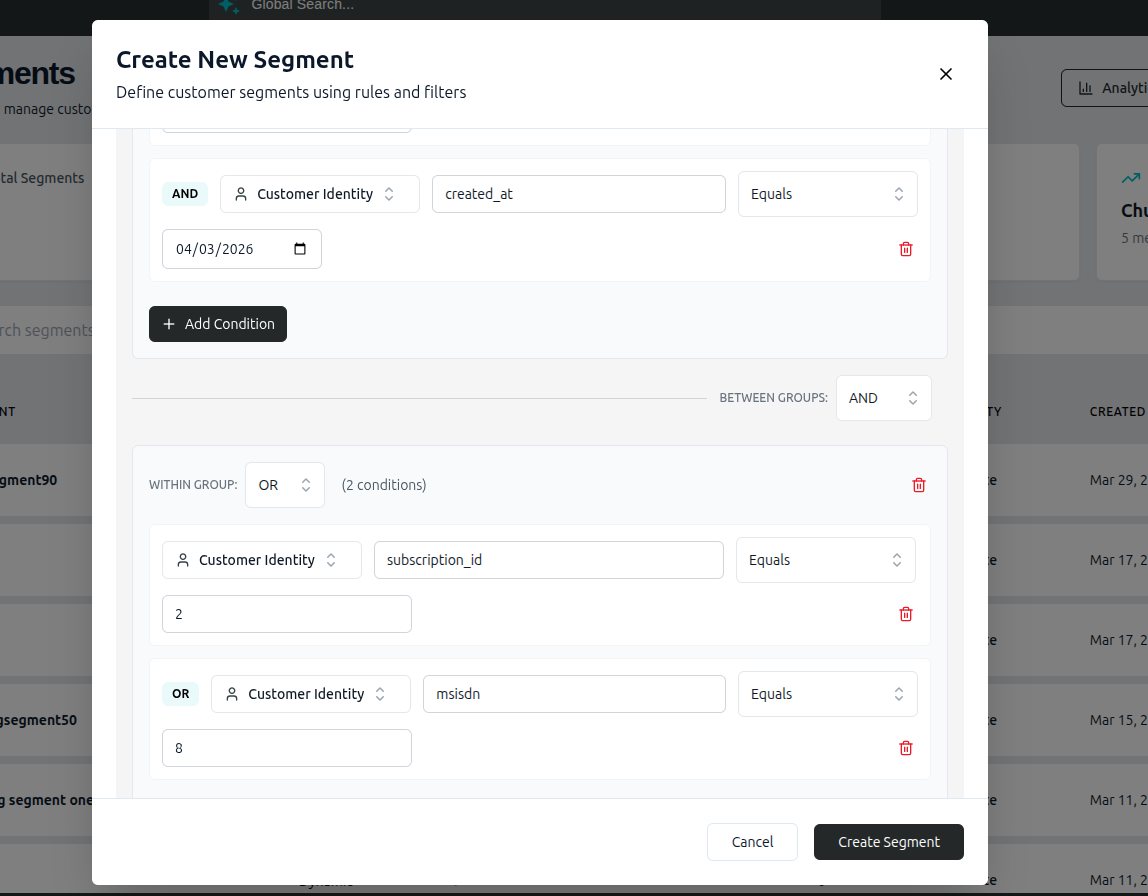
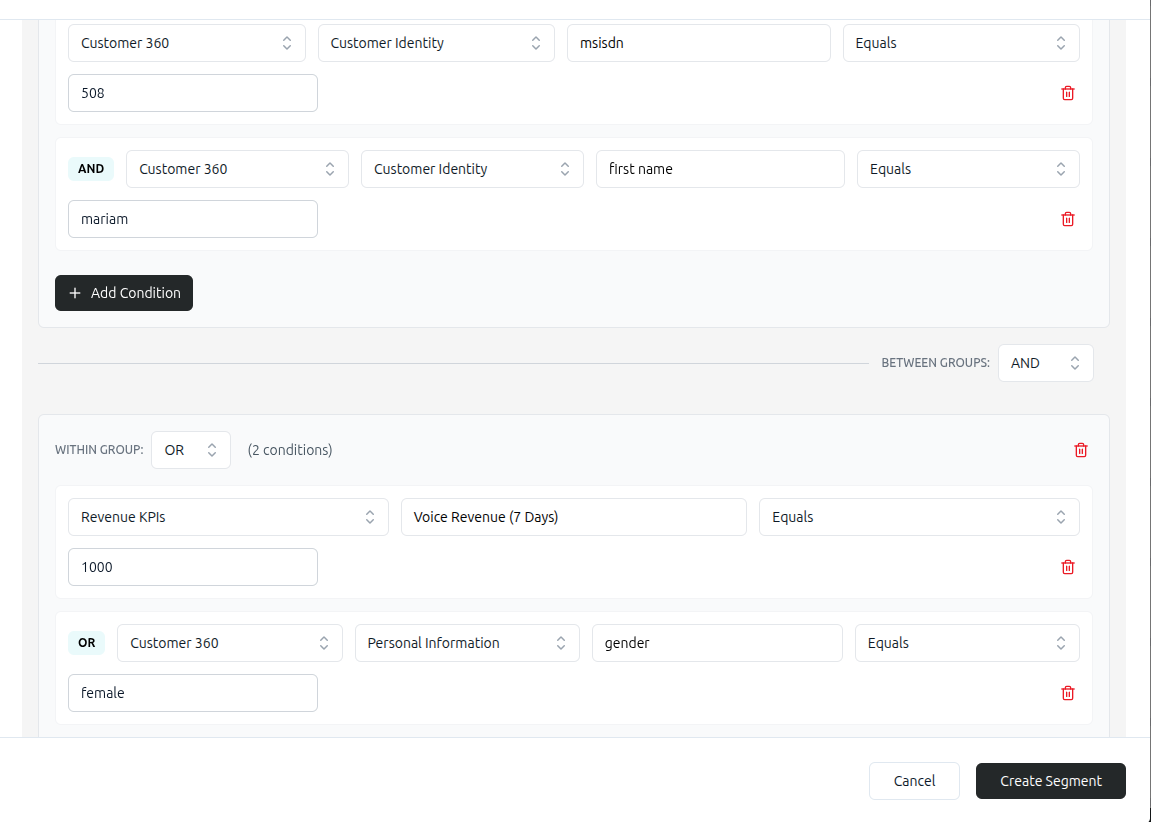
segmentmd file

diff --git a/src/features/docs/sidebars.v1.1.ts b/src/features/docs/sidebars.v1.1.ts
@@ -608,22 +608,9 @@ const sidebarsV1_1: SidebarsConfig = {
         "configuration/segment-types",
         "configuration/segment-catalog",
         {
-          type: "category",
+          type: "doc",
+          id: "configuration/notification-types-list",
           label: "Notification Types",
-          items: [
-            {
-              type: "doc",
-              id: "configuration/notification-types-overview",
-              label: "Overview",
-            },
-            {
-              type: "doc",
-              id: "configuration/notification-types-list",
-              label: "Notification Type List",
-            },
-            "configuration/create-notification-type",
-            "configuration/view-notification-type",
-          ],
         },
         "configuration/dynamic-message-variables",
       ],

diff --git a/src/features/docs/markdown-v1.1/segments/create-segment.md b/src/features/docs/markdown-v1.1/segments/create-segment.md
@@ -45,67 +45,91 @@ When you create a segment, you start with one empty condition group. To add rule
 3. **Add More Conditions** - Click **+ Add Condition** to add additional rules within the same group
 4. **Add Condition Groups** - Click **+ Add Group** to create a new group with its own logic
 
+**How to Select the Condition Type**
+
+When you click the condition type dropdown, you'll see different options to choose from:
+
+- **Customer 360** — Base customer information (this is what you'll use most often for profile-based rules)
+- **Segments** — Reference another segment you've created to combine segment logic
+- **QuickLists** — Use a pre-made customer list you've uploaded or created
+- **System Event** — Track customer activity like purchases, logins, or form submissions
+
+Select the one that matches the rule you want to create. Once you select a type, the fields below will show options specific to that type.
+
 ### Condition Types Explained
 
-The builder supports 5 different condition types. Each type has its own configuration:
+The builder supports 4 different condition types. Each type has its own configuration:
 
-#### 1. **360 Profile Conditions** (Customer Attributes)
+#### 1. **Profile Conditions** (Customer Attributes from Customer 360)
 
-Build rules based on customer profile attributes like demographics, behavior, transaction history, etc.
+Build rules based on customer profile data stored in your system. This is the most common way to create segments.
 
 **How It Works:**
 
-- Select a **Category** first (e.g., "Personal Info", "Transaction History", "Engagement")
-- Then select a **Field** from that category (e.g., "Age", "Last Purchase Date", "Total Spend")
-- Choose an **Operator** to specify the comparison (equals, greater than, contains, etc.)
-- Enter a **Value** to compare against
+**Step 1: Select Customer 360 and Sub-Category**
+- Click the dropdown to select "Customer 360"
+- A second dropdown appears to let you choose a **sub-category** (e.g., "Personal Information", "Customer Identity")
+- This organizes fields into easy-to-browse groups
 
-![Field Selection Modal](/img/v1.1/segments-img/createsegmentimagefieldselectionmodal.png)
+![Customer 360 Sub-Category Dropdown](/img/v1.1/segments-img/customer360subcategorydrodpown.png)
+_Select the sub-category from the dropdown_
 
-**Example:**
-![Main Operator Dropdown](/img/v1.1/segments-img/mainoperatordropdown.png)
-*Main operator dropdown: choose how to compare field values*
+**Step 2: Select a Field**
+- Click "Select Field..." to open a modal
+- The field picker shows all available fields for the sub-category you selected
+- Choose the specific field you want (e.g., "Age", "Total Spent", "Last Purchase Date")
 
-- Category: Transaction History
-- Field: Total Spend
+![Field Picker Modal](/img/v1.1/segments-img/fieldmodalpickerimage.png)
+_Field picker modal showing available fields_
+
+**Step 3: Choose How to Compare**
+- Select an **Operator** — this is how you compare the field to a value
+- Example operators: "equals", "greater than", "less than", "between", "contains", etc.
+
+![Operator Selection](/img/v1.1/segments-img/mainoperatordropdown.png)
+_Operators depend on the field type (text, number, date, etc.)_
+
+**Step 4: Enter a Value**
+- Type the value you want to compare against
+- Example: if field is "Total Spent" and operator is "greater than", enter "10000"
+
+**Complete Example:**
+- Sub-Category: Transaction History
+- Field: Total Spent
 - Operator: is greater than
 - Value: 10000
-- **Result:** Customers with total spend greater than KES 10,000
+- **Result:** "Include customers who have spent more than KES 10,000"
 
-**Common Fields by Category:**
-
-- **Personal Info**: Name, Age, Gender, Location
-- **Contact Info**: Email, Phone, Address
-- **Transaction History**: Total Spend, Purchase Frequency, Average Order Value, Last Purchase Date
-- **Engagement**: Last Active Date, Email Opens, SMS Clicks, Channel Preference
-- **Status**: Account Status, Subscription Status, VIP Status
-
-**Operators Available** (varies by field type):
+**Available Operators** (depends on field type):
 
 - **Text fields**: Equals, Not Equals, In List, Not In List, Is Empty, Is Not Empty
-- **Numeric fields**: Equals, Not Equals, Greater Than, Less Than, Greater Than or Equal, Less Than or Equal, Between, In List, Not In List, Is Empty, Is Not Empty
-- **Money/Decimal/Numeric KPI fields**: All numeric operators PLUS date-based operators (On Date, Between Dates, Since Date, Until Date) for date range filtering
-- **Date fields**: Equals, Greater Than, Less Than, Between, On Date, Between Dates, Since Date, Until Date, Is Empty, Is Not Empty
-- **Boolean fields**: Equals, Not Equals, Is Empty, Is Not Empty
+- **Number fields**: Equals, Not Equals, Greater Than, Less Than, Greater Than or Equal, Less Than or Equal, Between, In List, Not In List, Is Empty, Is Not Empty
+- **Money fields**: All number operators PLUS special date filtering options
+- **Date fields**: Equals, Greater Than, Less Than, Between, Date-Based Operators, Is Empty, Is Not Empty
+- **True/False fields**: Equals, Not Equals, Is Empty, Is Not Empty
 
-**Special: Money/Decimal/Numeric KPI Fields with Dual-Operator UI**
+**Special: Money Fields with Date Filtering**
 
-When you select a **Money, Decimal, or Numeric KPI field** and choose a numeric operator (like "greater than" or "equals"), you'll see a special interface with three elements on one line:
+When you select a money, numeric,date field (like "Total Spent") and use a number operator (like "greater than"), you can optionally add a **date range** to limit the results to a specific time period:
 
-1. **Numeric Value Input** — Enter the comparison value
-2. **Four-Option Date Dropdown** — Select how to filter by date:
-   - **On** — Include data from a specific date only
+1. **Enter the money amount** — e.g., "10000"
+2. **Optional: Select a date filter** — Choose from these options:
+   - **On** — Include data from only one specific date
    - **Between** — Include data within a date range
-   - **Since** — Include data from start date to today
-   - **Until** — Include data from the beginning to end date
-3. **Date Picker** — Select the date(s) based on your dropdown choice
+   - **Since** — Include data from a start date until today
+   - **Until** — Include data from the beginning until an end date
+3. **Pick the date(s)** — Use the date picker to select your date(s)
 
-   ![Four-Option Date Dropdown](/img/v1.1/segments-img/fouroptionsoperations.png)
-   *Four-option date dropdown: select date filtering mode*
+![Money Field Date Filtering](/img/v1.1/segments-img/fouroptionsoperations.png)
+_Optional date filtering for money/spending fields_
 
-**Example:** "Total Spend > 10000 SINCE 2024-01-01" filters for customers who spent more than KES 10,000 from January 1st to today.
+**Example with Date Filtering:**
+- Field: Total Spent
+- Operator: greater than 10000
+- Date Filter: Since January 1, 2024
+- **Result:** "Customers who spent more than KES 10,000 starting from January 1, 2024 until today"
 
-**Note:** If you select a date operator directly from the main operator list (On Date, Between Dates, etc.), the four-option dropdown does **not** appear because the date operator already handles date selection.
+**Note:** The date filter is optional. If you don't need it, just skip this step.
 
 #### 2. **Segment Conditions** (Reference Other Segments)
 
@@ -176,30 +200,6 @@ Build rules based on system events that have occurred. Track customer activity l
 - SMS Delivered
 - Form Submitted
 - And many more...
-
-#### 5. **KPI Conditions** (Key Performance Indicators)
-
-Build rules based on custom KPIs (Key Performance Indicators) that have been configured in the system.
-
-**How It Works:**
-
-- Click **Select KPI** to open a picker
-- Choose from predefined KPIs (Revenue Metrics, Usage Metrics, etc.)
-- Configure the comparison operator and value
-- The condition evaluates based on the KPI calculation
-
-**Example:**
-
-- KPI: Churn Risk Score
-- Operator: Greater Than
-- Value: 0.7
-- **Result:** Customers with a churn risk score above 0.7
-
-**KPI Types:**
-
-- **Revenue Metrics**: Total Revenue, Monthly Recurring Revenue, Customer Lifetime Value
-- **Usage Metrics**: API Calls, Data Transferred, Feature Usage Count
-- **Custom KPIs**: Any KPIs you've configured in the system
 
 ---
 

diff --git a/src/features/docs/markdown-v1.1/configuration/notification-types-list.md b/src/features/docs/markdown-v1.1/configuration/notification-types-list.md
@@ -2,13 +2,14 @@
 
 Notification types define the different kinds of events and actions that can trigger notifications to users in the system. They control which notifications are available for users to subscribe to in their notification preferences.
 
-![Notification Types List](../../../../../../public/img/v1.1/configuration/notificationtypeslist.png)
+![Notification Types List](/img/v1.1/configuration/notificationtypeslist.png)
 
 ## Accessing Notification Types
 
 **Navigation:** Configuration → Notification Types
 
 From the main Configuration page, Notification Types is available as a dedicated section. Use this view to:
+
 - Review all available notification types at a glance
 - Understand which system actions generate notifications
 - Identify which notification types are active
@@ -23,12 +24,13 @@ From the main Configuration page, Notification Types is available as a dedicated
 - Delete a notification type
 - View detailed configuration of a notification type
 
-![Create Notification Type](../../../../../../public/img/v1.1/configuration/createnotificationtype.png)
-![Edit Notification Type](../../../../../../public/img/v1.1/configuration/editnotificationtype.png)
+![Create Notification Type](/img/v1.1/configuration/createnotificationtype.png)
+![Edit Notification Type](/img/v1.1/configuration/editnotificationtype.png)
 
 ## Why This Page Matters
 
 Notification types provide a structured way to manage which events generate notifications. They ensure users can:
+
 - Receive relevant updates based on their role and interests
 - Control their notification preferences by subscribing/unsubscribing to specific types
 - Filter the types of notifications they care about
@@ -60,7 +62,7 @@ To create a new notification type, click the **Create** button in the top right.
 - **Action Type** (required): Select the type of action that triggers the notification (CREATE, UPDATE, DELETE)
 
 You can edit or delete existing notification types using the actions in the list. Editing allows you to update any of the fields above. Deleting will permanently remove the notification type after confirmation.
-
+<!-- 
 ## Tips
 
 - Create notification types for all important system events you want to track
@@ -68,4 +70,4 @@ You can edit or delete existing notification types using the actions in the list
 - Ensure message templates are informative and include relevant details
 - Keep descriptions updated to explain when notifications are sent
 - Review inactive notification types periodically to clean up unused ones
-- Test notification delivery before activating new notification types
+- Test notification delivery before activating new notification types -->

diff --git a/src/features/docs/markdown-v1.1/configuration/create-notification-type.md b/src/features/docs/markdown-v1.1/configuration/create-notification-type.md
@@ -1,9 +1,10 @@
-
 **Cancel**
+
 - Closes the form without saving
 - Any entered data is lost
 
 **Save**
+
 - Submits the notification type
 - Form validates required fields before saving
 - Shows success message on successful creation
@@ -12,6 +13,7 @@
 ## Validation
 
 The form validates:
+
 - **Notification Type Name** is required
 - **Table Name** is required
 - **Action Type** is required
@@ -22,6 +24,7 @@ If validation fails, an error message appears. Correct the issues and try again.
 ## Save Behavior
 
 On successful save:
+
 1. Notification type is created and assigned an ID
 2. Status defaults to Active
 3. You are returned to the Notification Type List

diff --git a/src/features/docs/markdown-v1.1/configuration/view-notification-type.md b/src/features/docs/markdown-v1.1/configuration/view-notification-type.md
@@ -1,4 +1,3 @@
-
 **Warning:** Ensure no users are actively subscribed to this notification type before deleting, or the subscription will become orphaned.
 
 ## Using This Notification Type
